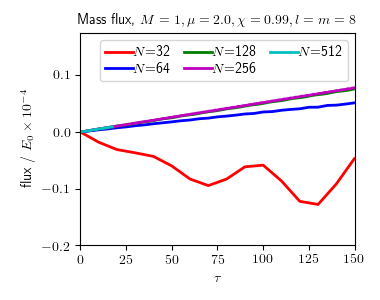
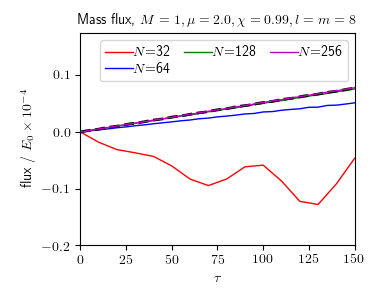
new plots

diff --git a/Analysis/scripts/plot_mass_flux_compare_N.py b/Analysis/scripts/plot_mass_flux_compare_N.py
@@ -29,7 +29,7 @@ average_time=False
 av_n = 1
 plot_mass=False
 cumulative=False
-differential=False
+differential=True
 Theta_max="0.99"
 Ntheta=64
 Nphi=64
@@ -181,7 +181,7 @@ add_data_dir(22, 8, 8, "0.99", "2.0", "0", 64, 18, "1.0", 32)
 add_data_dir(22, 8, 8, "0.99", "2.0", "0", 64, 18, "1.0", 64) 
 add_data_dir(22, 8, 8, "0.99", "2.0", "0", 64, 18, "1.0", 128)
 add_data_dir(22, 8, 8, "0.99", "2.0", "0", 64, 18, "1.0", 256)
-add_data_dir(22, 8, 8, "0.99", "2.0", "0", 64, 18, "1.0", 512)
+#add_data_dir(22, 8, 8, "0.99", "2.0", "0", 64, 18, "1.0", 512)
 
 def plot_graph():
 	# plot setup
@@ -215,9 +215,9 @@ def plot_graph():
 			dflux = np.abs((dd.outer_mass_flux - dd.analytic_outer_flux)/dd.analytic_outer_flux)
 			ax1.plot(tau,np.log10(dflux),colours[i]+"-", label=label_, linewidth=1)
 		elif not differential:
-			ax1.plot(tau,(10**4)*dd.outer_mass_flux,colours[i]+"-", label=label_, linewidth=2)
+			ax1.plot(tau,(10**4)*dd.outer_mass_flux,colours[i]+"-", label=label_, linewidth=1)
 			if (dd.N==128):
-				ax1.plot(tau,(10**4)*dd.analytic_outer_flux,'k'+"--", label="_4th order t$\\mu$/r analytic flux into R={:.1f} ".format(R_max)+label_, linewidth=1)
+				ax1.plot(tau,(10**4)*dd.analytic_outer_flux,'k'+"--", label="_4th order t$\\mu$/r analytic flux into R={:.1f} ".format(R_max)+label_, linewidth=2)
 		#ax1.plot(tflux,net_flux,colours[i]+":", label="net flux " + label_)
 		#
 		if plot_mass:

diff --git a/Analysis/scripts/plot_mass_flux_compare_N_with_mass.py b/Analysis/scripts/plot_mass_flux_compare_N_with_mass.py
@@ -179,7 +179,7 @@ add_data_dir(22, 8, 8, "0.99", "2.0", "0", 64, 18, "1.0", 32)
 add_data_dir(22, 8, 8, "0.99", "2.0", "0", 64, 18, "1.0", 64) 
 add_data_dir(22, 8, 8, "0.99", "2.0", "0", 64, 18, "1.0", 128)
 add_data_dir(22, 8, 8, "0.99", "2.0", "0", 64, 18, "1.0", 256)
-add_data_dir(22, 8, 8, "0.99", "2.0", "0", 64, 18, "1.0", 512)
+#add_data_dir(22, 8, 8, "0.99", "2.0", "0", 64, 18, "1.0", 512)
 
 def plot_graph():
 	# plot setup
